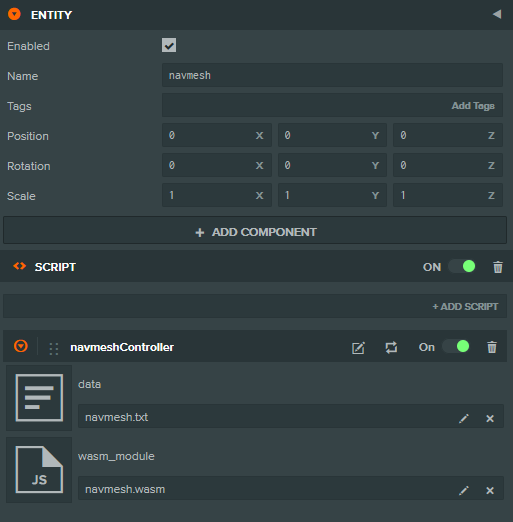
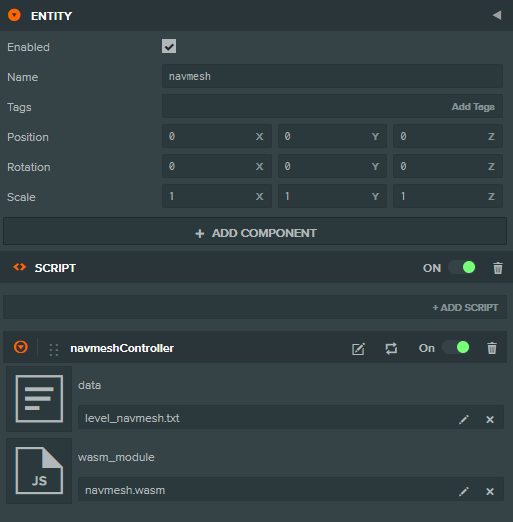
Update playcanvas tutorial

diff --git a/playcanvas_tutorial/README.md b/playcanvas_tutorial/README.md
@@ -4,7 +4,7 @@
 
 At first, download [the module binaries](https://github.com/Tugcga/Path-Finder/blob/main/wasm/navmesh.wasm) and add it to the project.
 
-At second, to use WASM modules in the web, you need a special js-program - the loader. Path Finder module written on AssemplyScript, and that's why it will be better to use loader from AssemblyScript developers. So, add ```https://cdn.jsdelivr.net/npm/@assemblyscript/loader/umd/index.js``` to Settings - External Scripts.
+At second, to use WASM modules in the web, you need a special js-program - the loader. Path Finder module written on AssemplyScript, and that's why it will be better to use the loader from AssemblyScript developers. To use it, add ```https://cdn.jsdelivr.net/npm/@assemblyscript/loader/umd/index.js``` to **Settings - External Scripts**.
 
 ![Add the module](images/add_module.png?raw=true)
 
@@ -18,9 +18,9 @@ Assume, we already generate the navigation mesh for this level. There are many e
 
 Ok, add this text file to the project. 
 
-Create entity in the scene and call it ```navmesh``` (for example). Create a script ```navmesh_controller.js``` and add it to the entity. Now we a ready to coding.
+Create entity in the scene and call it, for example, ```navmesh```. Create a script ```navmesh_controller.js``` and add it to the entity. Now we a ready to coding.
 
-We need two attribute: link to the text file with navigation mesh geometry data and link to the WASM module.
+We need two attributes: link to the text file with navigation mesh geometry data and link to the WASM module.
 
 ```
 var NavmeshController = pc.createScript('navmeshController');
@@ -35,24 +35,24 @@ this.is_init = false;
 var request = new XMLHttpRequest();
 request.open('GET', this.data.getFileUrl(), true);
 request.onload = function (msg) {
-	let lines = this.response.split("\n");
-	let vertices_data_array = lines[0].split(" ");
-	let vertices = [];
-	for(let i = 0; i < vertices_data_array.length; i++){
-		vertices.push(parseFloat(vertices_data_array[i]));
-	}
+    let lines = this.response.split("\n");
+    let vertices_data_array = lines[0].split(" ");
+    let vertices = [];
+    for(let i = 0; i < vertices_data_array.length; i++){
+        vertices.push(parseFloat(vertices_data_array[i]));
+    }
 
-	let polygons = [];
-	let polygons_data_array = lines[1].split(" ");
-	for(let i = 0; i < polygons_data_array.length; i++){
-		polygons.push(parseInt(polygons_data_array[i]));
-	}
+    let polygons = [];
+    let polygons_data_array = lines[1].split(" ");
+    for(let i = 0; i < polygons_data_array.length; i++){
+        polygons.push(parseInt(polygons_data_array[i]));
+    }
 
-	let sizes = [];
-	let sizes_data_array = lines[2].split(" ");
-	for(let i = 0; i < sizes_data_array.length; i++){
-		sizes.push(parseInt(sizes_data_array[i]));
-	}
+    let sizes = [];
+    let sizes_data_array = lines[2].split(" ");
+    for(let i = 0; i < sizes_data_array.length; i++){
+        sizes.push(parseInt(sizes_data_array[i]));
+    }
 };
 request.send();
 ```
@@ -63,36 +63,35 @@ Here we load the file, parse it and create three arrays: ```vertices, polygons, 
 var wasm_path = this.wasm_module.getFileUrl();
 var navmesh_controller = this;
 loader.instantiate(
-	fetch(wasm_path),
-	{
-		navmesh: {
-		"console.log"(ptr) {console.log(ptr);}
-		}
-	}).then(({exports}) => {
-		navmesh_controller.init_navmesh(exports, vertices, polygons, sizes);
+    fetch(wasm_path),
+    {
+        navmesh: {
+        "console.log"(ptr) {console.log(ptr);}
+        }
+    }).then(({exports}) => {
+        navmesh_controller.init_navmesh(exports, vertices, polygons, sizes);
 });
 ```
 
-Here we load the module and call method ```init_navmesh```. ```exports``` contains all functions inside the module.
+Here we load the module and call the method ```init_navmesh```. ```exports``` contains all functions inside the module.
 
 ```
 NavmeshController.prototype.init_navmesh = function(exports, vertices, polygons, sizes){
     let vertices_pointer = exports.__pin(exports.__newArray(exports.Float32Array_ID, vertices));
-	let polygons_pointer = exports.__pin(exports.__newArray(exports.Int32Array_ID, polygons));
-	let sizes_pointer = exports.__pin(exports.__newArray(exports.Int32Array_ID, sizes));
-	this.navmesh_pointer = exports.__pin(exports.create_navmesh(vertices_pointer, polygons_pointer, sizes_pointer));
-	this.navmesh = exports.Navmesh.wrap(this.navmesh_pointer);
+    let polygons_pointer = exports.__pin(exports.__newArray(exports.Int32Array_ID, polygons));
+    let sizes_pointer = exports.__pin(exports.__newArray(exports.Int32Array_ID, sizes));
+    this.navmesh_pointer = exports.__pin(exports.create_navmesh(vertices_pointer, polygons_pointer, sizes_pointer));
+    this.navmesh = exports.Navmesh.wrap(this.navmesh_pointer);
     this.exports = exports;
-	
-	exports.__unpin(vertices_pointer);
-	exports.__unpin(polygons_pointer);
-	exports.__unpin(sizes_pointer);
     
+    exports.__unpin(vertices_pointer);
+    exports.__unpin(polygons_pointer);
+    exports.__unpin(sizes_pointer);
     this.is_init = true;
 };
 ```
 
-Here we load three arrays into the module's memory and initialize ```this.navmesh``` object. We will be use this object to find paths for all entities in the scene. Then, by using ```exports.__unpin```, we allows the GC to free the memory.
+Here we load three arrays into the module's memory and initialize ```this.navmesh``` object. This object should be used to find paths for all entities in the scene. Then, by using ```exports.__unpin```, we allows the GC to free the memory.
 
 ### Step 3. Find the path
 
@@ -179,15 +178,15 @@ NavmeshController.prototype.get_exports = function(){
 
 NavmeshController.prototype.init_navmesh = function(exports, vertices, polygons, sizes){
     let vertices_pointer = exports.__pin(exports.__newArray(exports.Float32Array_ID, vertices));
-	let polygons_pointer = exports.__pin(exports.__newArray(exports.Int32Array_ID, polygons));
-	let sizes_pointer = exports.__pin(exports.__newArray(exports.Int32Array_ID, sizes));
-	this.navmesh_pointer = exports.__pin(exports.create_navmesh(vertices_pointer, polygons_pointer, sizes_pointer));
-	this.navmesh = exports.Navmesh.wrap(this.navmesh_pointer);
+    let polygons_pointer = exports.__pin(exports.__newArray(exports.Int32Array_ID, polygons));
+    let sizes_pointer = exports.__pin(exports.__newArray(exports.Int32Array_ID, sizes));
+    this.navmesh_pointer = exports.__pin(exports.create_navmesh(vertices_pointer, polygons_pointer, sizes_pointer));
+    this.navmesh = exports.Navmesh.wrap(this.navmesh_pointer);
     this.exports = exports;
-	
-	exports.__unpin(vertices_pointer);
-	exports.__unpin(polygons_pointer);
-	exports.__unpin(sizes_pointer);
+    
+    exports.__unpin(vertices_pointer);
+    exports.__unpin(polygons_pointer);
+    exports.__unpin(sizes_pointer);
     
     this.is_init = true;
 };

diff --git a/README.md b/README.md
@@ -115,4 +115,4 @@ Task | Python | WASM | PyRecastDetour
 Initialization time | 0.28 sec | 0.13 sec | 0.02 sec
 1024 pairs | 5.05 sec | 0.35 sec | 0.08 sec
 4096 pairs |  | 1.29 sec | 0.28 sec
-16 384 pairs | | | 1.24 sec
+16 384 pairs | | 5.61 sec | 1.24 sec
